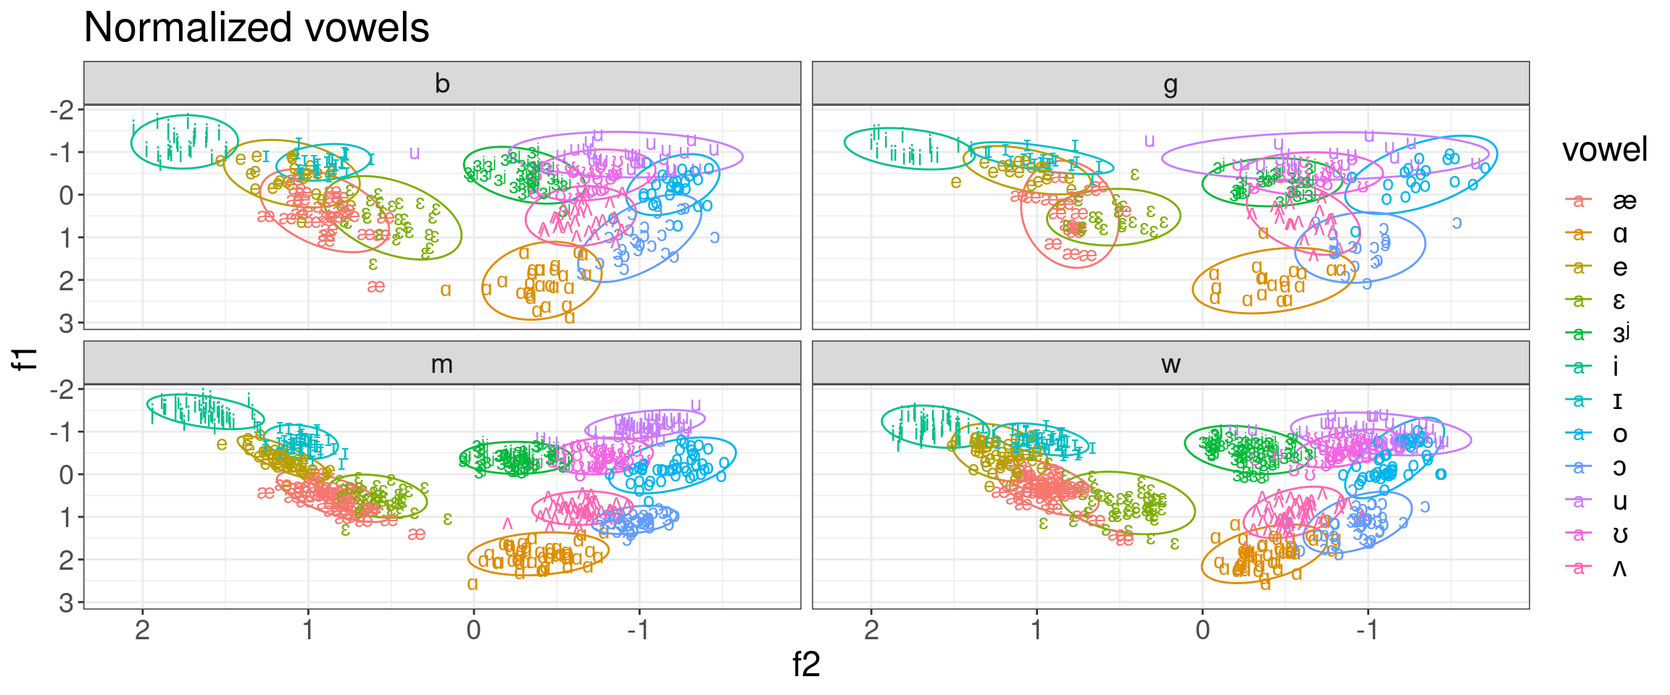
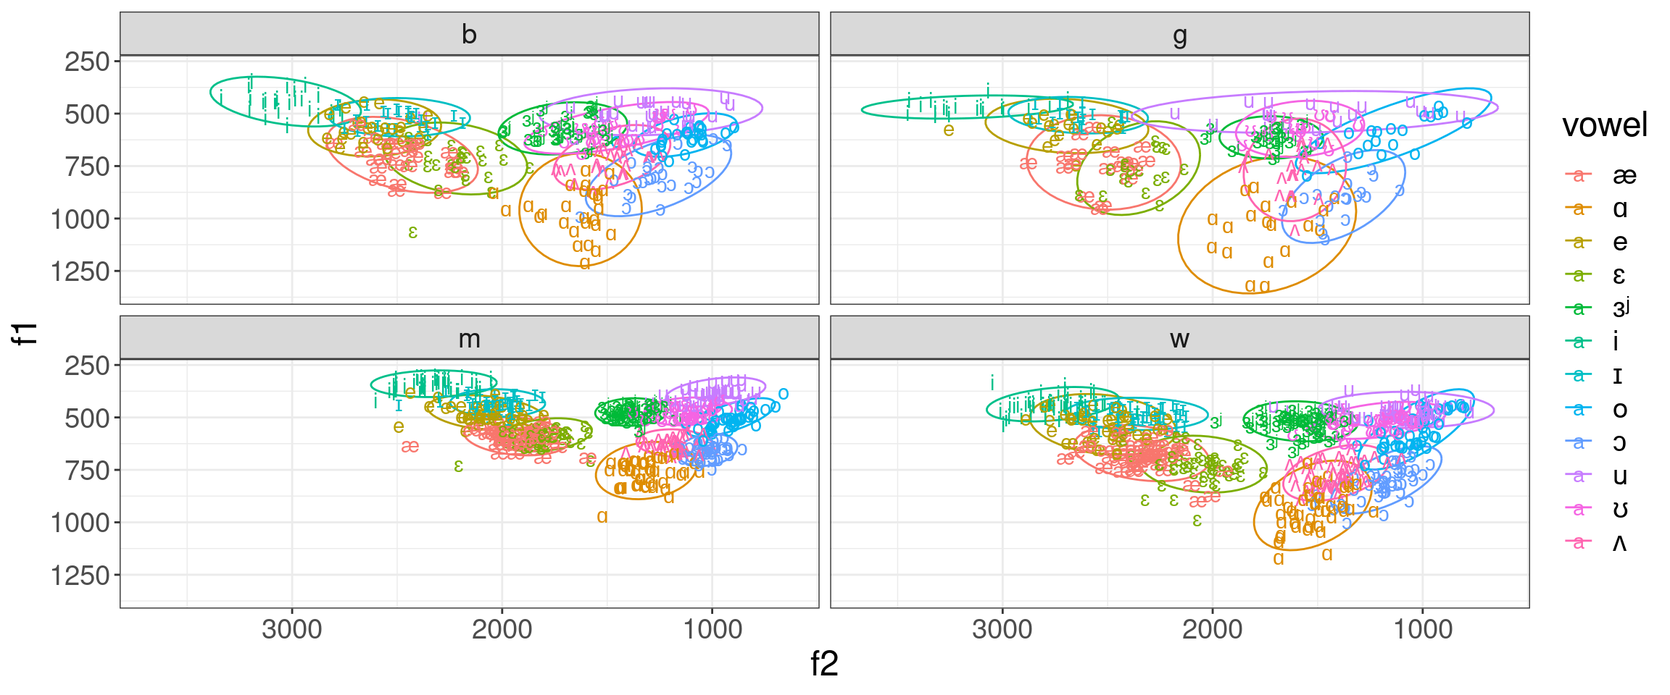
update

diff --git a/docs/08-automatic-analysis.html b/docs/08-automatic-analysis.html
@@ -300,10 +300,10 @@ div.csl-indent {
 </div>
 </div>
 <p>Here are the <a href="https://raw.githubusercontent.com/agricolamz/2024_HSE_m_Instrumental_phonetics/master/sounds/s1_all.TextGrid"><code>s1_all.TextGrid</code></a>, <a href="https://raw.githubusercontent.com/agricolamz/2024_HSE_m_Instrumental_phonetics/master/sounds/s1_all.wav"><code>s1_all.wav</code></a> and the <code>get-formants-args.praat</code>:</p>
-<pre><code>###########################################################
-####### Change the path! ##################################
-outputPath$ = "/home/agricolamz/Desktop/ex/formants.csv"
-###########################################################
+<pre><code>##############################################################
+####### Change the path! #####################################
+outputPath$ = "/home/agricolamz/Desktop/ex/abaza_formants.csv"
+##############################################################
 
 writeInfoLine: "Extracting formants..."
 
@@ -355,19 +355,37 @@ for thisInterval from 1 to numberOfPhonemes
 endfor
 
 appendInfoLine: newline$, newline$, "Whoo-hoo! It didn't crash!"</code></pre>
+<p>And now we can visualized the results:</p>
+<div class="cell" data-layout-align="center">
+<div class="sourceCode cell-code" id="cb4"><pre class="sourceCode r code-with-copy"><code class="sourceCode r"><span id="cb4-1"><a href="#cb4-1" aria-hidden="true" tabindex="-1"></a>abaza_formants <span class="ot">&lt;-</span> <span class="fu">read_csv</span>(<span class="st">"sounds/abaza_formants.csv"</span>)</span>
+<span id="cb4-2"><a href="#cb4-2" aria-hidden="true" tabindex="-1"></a></span>
+<span id="cb4-3"><a href="#cb4-3" aria-hidden="true" tabindex="-1"></a>abaza_formants <span class="sc">|&gt;</span> </span>
+<span id="cb4-4"><a href="#cb4-4" aria-hidden="true" tabindex="-1"></a>  <span class="fu">filter</span>(phoneme <span class="sc">!=</span> <span class="st">""</span>) <span class="sc">|&gt;</span> </span>
+<span id="cb4-5"><a href="#cb4-5" aria-hidden="true" tabindex="-1"></a>  <span class="fu">ggplot</span>(<span class="fu">aes</span>(F2, F1, <span class="at">label =</span> phoneme))<span class="sc">+</span></span>
+<span id="cb4-6"><a href="#cb4-6" aria-hidden="true" tabindex="-1"></a>  <span class="fu">geom_label</span>()<span class="sc">+</span></span>
+<span id="cb4-7"><a href="#cb4-7" aria-hidden="true" tabindex="-1"></a>  <span class="fu">scale_x_reverse</span>()<span class="sc">+</span></span>
+<span id="cb4-8"><a href="#cb4-8" aria-hidden="true" tabindex="-1"></a>  <span class="fu">scale_y_reverse</span>()</span></code><button title="Copy to Clipboard" class="code-copy-button"><i class="bi"></i></button></pre></div>
+<div class="cell-output-display">
+<div class="quarto-figure quarto-figure-center">
+<figure class="figure">
+<p><img src="08-automatic-analysis_files/figure-html/unnamed-chunk-3-1.png" class="img-fluid quarto-figure quarto-figure-center figure-img" style="width:100.0%"></p>
+</figure>
+</div>
+</div>
+</div>
 <section id="ipa" class="level2" data-number="8.1">
 <h2 data-number="8.1" class="anchored" data-anchor-id="ipa"><span class="header-section-number">8.1</span> <code>ipa</code></h2>
 <p>Converts character vectors between phonetic representations. Supports IPA (International Phonetic Alphabet), X-SAMPA (Extended Speech Assessment Methods Phonetic Alphabet), and ARPABET (used by the CMU Pronouncing Dictionary).</p>
 <div class="cell" data-layout-align="center">
-<div class="sourceCode cell-code" id="cb4"><pre class="sourceCode r code-with-copy"><code class="sourceCode r"><span id="cb4-1"><a href="#cb4-1" aria-hidden="true" tabindex="-1"></a><span class="fu">library</span>(ipa)</span>
-<span id="cb4-2"><a href="#cb4-2" aria-hidden="true" tabindex="-1"></a><span class="fu">convert_phonetics</span>(<span class="st">'%hE"loU'</span>, <span class="at">from =</span> <span class="st">"xsampa"</span>, <span class="at">to =</span> <span class="st">"ipa"</span>)</span></code><button title="Copy to Clipboard" class="code-copy-button"><i class="bi"></i></button></pre></div>
+<div class="sourceCode cell-code" id="cb5"><pre class="sourceCode r code-with-copy"><code class="sourceCode r"><span id="cb5-1"><a href="#cb5-1" aria-hidden="true" tabindex="-1"></a><span class="fu">library</span>(ipa)</span>
+<span id="cb5-2"><a href="#cb5-2" aria-hidden="true" tabindex="-1"></a><span class="fu">convert_phonetics</span>(<span class="st">'%hE"loU'</span>, <span class="at">from =</span> <span class="st">"xsampa"</span>, <span class="at">to =</span> <span class="st">"ipa"</span>)</span></code><button title="Copy to Clipboard" class="code-copy-button"><i class="bi"></i></button></pre></div>
 <div class="cell-output cell-output-stdout">
 <pre><code>[1] "ˌhɛˈloʊ"</code></pre>
 </div>
 </div>
 <p>If you will use the package it make sense to cite it:</p>
 <div class="cell" data-layout-align="center">
-<div class="sourceCode cell-code" id="cb6"><pre class="sourceCode r code-with-copy"><code class="sourceCode r"><span id="cb6-1"><a href="#cb6-1" aria-hidden="true" tabindex="-1"></a><span class="fu">citation</span>(<span class="st">"ipa"</span>)</span></code><button title="Copy to Clipboard" class="code-copy-button"><i class="bi"></i></button></pre></div>
+<div class="sourceCode cell-code" id="cb7"><pre class="sourceCode r code-with-copy"><code class="sourceCode r"><span id="cb7-1"><a href="#cb7-1" aria-hidden="true" tabindex="-1"></a><span class="fu">citation</span>(<span class="st">"ipa"</span>)</span></code><button title="Copy to Clipboard" class="code-copy-button"><i class="bi"></i></button></pre></div>
 <div class="cell-output cell-output-stdout">
 <pre><code>To cite ipa in publications use:
 
@@ -404,9 +422,9 @@ A BibTeX entry for LaTeX users is
 </ul>
 <p>In order to load them you need to follow these steps:</p>
 <div class="cell" data-layout-align="center">
-<div class="sourceCode cell-code" id="cb8"><pre class="sourceCode r code-with-copy"><code class="sourceCode r"><span id="cb8-1"><a href="#cb8-1" aria-hidden="true" tabindex="-1"></a><span class="fu">library</span>(phonTools)</span>
-<span id="cb8-2"><a href="#cb8-2" aria-hidden="true" tabindex="-1"></a><span class="fu">data</span>(h95)</span>
-<span id="cb8-3"><a href="#cb8-3" aria-hidden="true" tabindex="-1"></a>h95</span></code><button title="Copy to Clipboard" class="code-copy-button"><i class="bi"></i></button></pre></div>
+<div class="sourceCode cell-code" id="cb9"><pre class="sourceCode r code-with-copy"><code class="sourceCode r"><span id="cb9-1"><a href="#cb9-1" aria-hidden="true" tabindex="-1"></a><span class="fu">library</span>(phonTools)</span>
+<span id="cb9-2"><a href="#cb9-2" aria-hidden="true" tabindex="-1"></a><span class="fu">data</span>(h95)</span>
+<span id="cb9-3"><a href="#cb9-3" aria-hidden="true" tabindex="-1"></a>h95</span></code><button title="Copy to Clipboard" class="code-copy-button"><i class="bi"></i></button></pre></div>
 <div class="cell-output-display">
 <div data-pagedtable="false">
   <script data-pagedtable-source="" type="application/json">
@@ -417,38 +435,16 @@ A BibTeX entry for LaTeX users is
 </div>
 <p>As you see <code>vowel</code> column is in <a href="https://en.wikipedia.org/wiki/X-SAMPA">X-SAMPA</a>. In order to use it we need to recode it:</p>
 <div class="cell" data-layout-align="center">
-<div class="sourceCode cell-code" id="cb9"><pre class="sourceCode r code-with-copy"><code class="sourceCode r"><span id="cb9-1"><a href="#cb9-1" aria-hidden="true" tabindex="-1"></a><span class="fu">library</span>(tidyverse)</span>
-<span id="cb9-2"><a href="#cb9-2" aria-hidden="true" tabindex="-1"></a>h95 <span class="sc">|&gt;</span> </span>
-<span id="cb9-3"><a href="#cb9-3" aria-hidden="true" tabindex="-1"></a>  <span class="fu">mutate</span>(<span class="at">vowel =</span> <span class="fu">convert_phonetics</span>(vowel, <span class="at">from =</span> <span class="st">"xsampa"</span>, <span class="at">to =</span> <span class="st">"ipa"</span>)) <span class="sc">|&gt;</span></span>
-<span id="cb9-4"><a href="#cb9-4" aria-hidden="true" tabindex="-1"></a>  <span class="fu">ggplot</span>(<span class="fu">aes</span>(f2, f1, <span class="at">label =</span> vowel, <span class="at">color =</span> vowel))<span class="sc">+</span></span>
-<span id="cb9-5"><a href="#cb9-5" aria-hidden="true" tabindex="-1"></a>  <span class="fu">stat_ellipse</span>()<span class="sc">+</span></span>
-<span id="cb9-6"><a href="#cb9-6" aria-hidden="true" tabindex="-1"></a>  <span class="fu">geom_text</span>()<span class="sc">+</span></span>
-<span id="cb9-7"><a href="#cb9-7" aria-hidden="true" tabindex="-1"></a>  <span class="fu">scale_x_reverse</span>()<span class="sc">+</span></span>
-<span id="cb9-8"><a href="#cb9-8" aria-hidden="true" tabindex="-1"></a>  <span class="fu">scale_y_reverse</span>()<span class="sc">+</span></span>
-<span id="cb9-9"><a href="#cb9-9" aria-hidden="true" tabindex="-1"></a>  <span class="fu">coord_fixed</span>()<span class="sc">+</span></span>
-<span id="cb9-10"><a href="#cb9-10" aria-hidden="true" tabindex="-1"></a>  <span class="fu">facet_wrap</span>(<span class="sc">~</span>type)</span></code><button title="Copy to Clipboard" class="code-copy-button"><i class="bi"></i></button></pre></div>
-<div class="cell-output-display">
-<div class="quarto-figure quarto-figure-center">
-<figure class="figure">
-<p><img src="08-automatic-analysis_files/figure-html/unnamed-chunk-6-1.png" class="img-fluid quarto-figure quarto-figure-center figure-img" style="width:100.0%"></p>
-</figure>
-</div>
-</div>
-</div>
-<p>It also make sense to use normalization for vowels:</p>
-<div class="cell" data-layout-align="center">
-<div class="sourceCode cell-code" id="cb10"><pre class="sourceCode r code-with-copy"><code class="sourceCode r"><span id="cb10-1"><a href="#cb10-1" aria-hidden="true" tabindex="-1"></a>h95 <span class="sc">|&gt;</span> </span>
-<span id="cb10-2"><a href="#cb10-2" aria-hidden="true" tabindex="-1"></a>  <span class="fu">mutate</span>(<span class="at">vowel =</span> <span class="fu">convert_phonetics</span>(vowel, <span class="at">from =</span> <span class="st">"xsampa"</span>, <span class="at">to =</span> <span class="st">"ipa"</span>)) <span class="sc">|&gt;</span></span>
-<span id="cb10-3"><a href="#cb10-3" aria-hidden="true" tabindex="-1"></a>  <span class="fu">group_by</span>(speaker) <span class="sc">|&gt;</span> </span>
-<span id="cb10-4"><a href="#cb10-4" aria-hidden="true" tabindex="-1"></a>  <span class="fu">mutate</span>(<span class="at">f1 =</span> <span class="fu">scale</span>(f1),</span>
-<span id="cb10-5"><a href="#cb10-5" aria-hidden="true" tabindex="-1"></a>         <span class="at">f2 =</span> <span class="fu">scale</span>(f2)) <span class="sc">|&gt;</span> </span>
-<span id="cb10-6"><a href="#cb10-6" aria-hidden="true" tabindex="-1"></a>  <span class="fu">ggplot</span>(<span class="fu">aes</span>(f2, f1, <span class="at">label =</span> vowel, <span class="at">color =</span> vowel))<span class="sc">+</span></span>
-<span id="cb10-7"><a href="#cb10-7" aria-hidden="true" tabindex="-1"></a>  <span class="fu">stat_ellipse</span>()<span class="sc">+</span></span>
-<span id="cb10-8"><a href="#cb10-8" aria-hidden="true" tabindex="-1"></a>  <span class="fu">geom_text</span>()<span class="sc">+</span></span>
-<span id="cb10-9"><a href="#cb10-9" aria-hidden="true" tabindex="-1"></a>  <span class="fu">scale_x_reverse</span>()<span class="sc">+</span></span>
-<span id="cb10-10"><a href="#cb10-10" aria-hidden="true" tabindex="-1"></a>  <span class="fu">scale_y_reverse</span>()<span class="sc">+</span></span>
-<span id="cb10-11"><a href="#cb10-11" aria-hidden="true" tabindex="-1"></a>  <span class="fu">facet_wrap</span>(<span class="sc">~</span>type)<span class="sc">+</span></span>
-<span id="cb10-12"><a href="#cb10-12" aria-hidden="true" tabindex="-1"></a>  <span class="fu">labs</span>(<span class="at">title =</span> <span class="st">"Normalized vowels"</span>)</span></code><button title="Copy to Clipboard" class="code-copy-button"><i class="bi"></i></button></pre></div>
+<div class="sourceCode cell-code" id="cb10"><pre class="sourceCode r code-with-copy"><code class="sourceCode r"><span id="cb10-1"><a href="#cb10-1" aria-hidden="true" tabindex="-1"></a><span class="fu">library</span>(tidyverse)</span>
+<span id="cb10-2"><a href="#cb10-2" aria-hidden="true" tabindex="-1"></a>h95 <span class="sc">|&gt;</span> </span>
+<span id="cb10-3"><a href="#cb10-3" aria-hidden="true" tabindex="-1"></a>  <span class="fu">mutate</span>(<span class="at">vowel =</span> <span class="fu">convert_phonetics</span>(vowel, <span class="at">from =</span> <span class="st">"xsampa"</span>, <span class="at">to =</span> <span class="st">"ipa"</span>)) <span class="sc">|&gt;</span></span>
+<span id="cb10-4"><a href="#cb10-4" aria-hidden="true" tabindex="-1"></a>  <span class="fu">ggplot</span>(<span class="fu">aes</span>(f2, f1, <span class="at">label =</span> vowel, <span class="at">color =</span> vowel))<span class="sc">+</span></span>
+<span id="cb10-5"><a href="#cb10-5" aria-hidden="true" tabindex="-1"></a>  <span class="fu">stat_ellipse</span>()<span class="sc">+</span></span>
+<span id="cb10-6"><a href="#cb10-6" aria-hidden="true" tabindex="-1"></a>  <span class="fu">geom_text</span>()<span class="sc">+</span></span>
+<span id="cb10-7"><a href="#cb10-7" aria-hidden="true" tabindex="-1"></a>  <span class="fu">scale_x_reverse</span>()<span class="sc">+</span></span>
+<span id="cb10-8"><a href="#cb10-8" aria-hidden="true" tabindex="-1"></a>  <span class="fu">scale_y_reverse</span>()<span class="sc">+</span></span>
+<span id="cb10-9"><a href="#cb10-9" aria-hidden="true" tabindex="-1"></a>  <span class="fu">coord_fixed</span>()<span class="sc">+</span></span>
+<span id="cb10-10"><a href="#cb10-10" aria-hidden="true" tabindex="-1"></a>  <span class="fu">facet_wrap</span>(<span class="sc">~</span>type)</span></code><button title="Copy to Clipboard" class="code-copy-button"><i class="bi"></i></button></pre></div>
 <div class="cell-output-display">
 <div class="quarto-figure quarto-figure-center">
 <figure class="figure">
@@ -457,9 +453,31 @@ A BibTeX entry for LaTeX users is
 </div>
 </div>
 </div>
+<p>It also make sense to use normalization for vowels:</p>
+<div class="cell" data-layout-align="center">
+<div class="sourceCode cell-code" id="cb11"><pre class="sourceCode r code-with-copy"><code class="sourceCode r"><span id="cb11-1"><a href="#cb11-1" aria-hidden="true" tabindex="-1"></a>h95 <span class="sc">|&gt;</span> </span>
+<span id="cb11-2"><a href="#cb11-2" aria-hidden="true" tabindex="-1"></a>  <span class="fu">mutate</span>(<span class="at">vowel =</span> <span class="fu">convert_phonetics</span>(vowel, <span class="at">from =</span> <span class="st">"xsampa"</span>, <span class="at">to =</span> <span class="st">"ipa"</span>)) <span class="sc">|&gt;</span></span>
+<span id="cb11-3"><a href="#cb11-3" aria-hidden="true" tabindex="-1"></a>  <span class="fu">group_by</span>(speaker) <span class="sc">|&gt;</span> </span>
+<span id="cb11-4"><a href="#cb11-4" aria-hidden="true" tabindex="-1"></a>  <span class="fu">mutate</span>(<span class="at">f1 =</span> <span class="fu">scale</span>(f1),</span>
+<span id="cb11-5"><a href="#cb11-5" aria-hidden="true" tabindex="-1"></a>         <span class="at">f2 =</span> <span class="fu">scale</span>(f2)) <span class="sc">|&gt;</span> </span>
+<span id="cb11-6"><a href="#cb11-6" aria-hidden="true" tabindex="-1"></a>  <span class="fu">ggplot</span>(<span class="fu">aes</span>(f2, f1, <span class="at">label =</span> vowel, <span class="at">color =</span> vowel))<span class="sc">+</span></span>
+<span id="cb11-7"><a href="#cb11-7" aria-hidden="true" tabindex="-1"></a>  <span class="fu">stat_ellipse</span>()<span class="sc">+</span></span>
+<span id="cb11-8"><a href="#cb11-8" aria-hidden="true" tabindex="-1"></a>  <span class="fu">geom_text</span>()<span class="sc">+</span></span>
+<span id="cb11-9"><a href="#cb11-9" aria-hidden="true" tabindex="-1"></a>  <span class="fu">scale_x_reverse</span>()<span class="sc">+</span></span>
+<span id="cb11-10"><a href="#cb11-10" aria-hidden="true" tabindex="-1"></a>  <span class="fu">scale_y_reverse</span>()<span class="sc">+</span></span>
+<span id="cb11-11"><a href="#cb11-11" aria-hidden="true" tabindex="-1"></a>  <span class="fu">facet_wrap</span>(<span class="sc">~</span>type)<span class="sc">+</span></span>
+<span id="cb11-12"><a href="#cb11-12" aria-hidden="true" tabindex="-1"></a>  <span class="fu">labs</span>(<span class="at">title =</span> <span class="st">"Normalized vowels"</span>)</span></code><button title="Copy to Clipboard" class="code-copy-button"><i class="bi"></i></button></pre></div>
+<div class="cell-output-display">
+<div class="quarto-figure quarto-figure-center">
+<figure class="figure">
+<p><img src="08-automatic-analysis_files/figure-html/unnamed-chunk-8-1.png" class="img-fluid quarto-figure quarto-figure-center figure-img" style="width:100.0%"></p>
+</figure>
+</div>
+</div>
+</div>
 <p>If you will use the package it make sense to cite it:</p>
 <div class="cell" data-layout-align="center">
-<div class="sourceCode cell-code" id="cb11"><pre class="sourceCode r code-with-copy"><code class="sourceCode r"><span id="cb11-1"><a href="#cb11-1" aria-hidden="true" tabindex="-1"></a><span class="fu">citation</span>(<span class="st">"phonTools"</span>)</span></code><button title="Copy to Clipboard" class="code-copy-button"><i class="bi"></i></button></pre></div>
+<div class="sourceCode cell-code" id="cb12"><pre class="sourceCode r code-with-copy"><code class="sourceCode r"><span id="cb12-1"><a href="#cb12-1" aria-hidden="true" tabindex="-1"></a><span class="fu">citation</span>(<span class="st">"phonTools"</span>)</span></code><button title="Copy to Clipboard" class="code-copy-button"><i class="bi"></i></button></pre></div>
 <div class="cell-output cell-output-stdout">
 <pre><code>To cite package 'phonTools' in publications use:
 
@@ -482,7 +500,7 @@ A BibTeX entry for LaTeX users is
 <p>Procedures for the manipulation, normalization, and plotting of phonetic and sociophonetic vowel formant data. <code>vowels</code> is the backend for the <a href="http://lingtools.uoregon.edu/norm/about_norm1.php">NORM website</a>.</p>
 <p>If you will use the package it make sense to cite it:</p>
 <div class="cell" data-layout-align="center">
-<div class="sourceCode cell-code" id="cb13"><pre class="sourceCode r code-with-copy"><code class="sourceCode r"><span id="cb13-1"><a href="#cb13-1" aria-hidden="true" tabindex="-1"></a><span class="fu">citation</span>(<span class="st">"vowels"</span>)</span></code><button title="Copy to Clipboard" class="code-copy-button"><i class="bi"></i></button></pre></div>
+<div class="sourceCode cell-code" id="cb14"><pre class="sourceCode r code-with-copy"><code class="sourceCode r"><span id="cb14-1"><a href="#cb14-1" aria-hidden="true" tabindex="-1"></a><span class="fu">citation</span>(<span class="st">"vowels"</span>)</span></code><button title="Copy to Clipboard" class="code-copy-button"><i class="bi"></i></button></pre></div>
 <div class="cell-output cell-output-stdout">
 <pre><code>To cite package 'vowels' in publications use:
 
@@ -511,7 +529,7 @@ package DESCRIPTION file and may need manual editing, see
 <p>This is a package for reading, writing and manipulating Praat objects like TextGrid, PitchTier, Pitch, IntensityTier, Formant, Sound, and Collection files. You can find the demo for <code>rPraat</code> <a href="https://fu.ff.cuni.cz/praat/rDemo.html">here</a>.</p>
 <p>If you will use the package it make sense to cite it:</p>
 <div class="cell" data-layout-align="center">
-<div class="sourceCode cell-code" id="cb15"><pre class="sourceCode r code-with-copy"><code class="sourceCode r"><span id="cb15-1"><a href="#cb15-1" aria-hidden="true" tabindex="-1"></a><span class="fu">citation</span>(<span class="st">"rPraat"</span>)</span></code><button title="Copy to Clipboard" class="code-copy-button"><i class="bi"></i></button></pre></div>
+<div class="sourceCode cell-code" id="cb16"><pre class="sourceCode r code-with-copy"><code class="sourceCode r"><span id="cb16-1"><a href="#cb16-1" aria-hidden="true" tabindex="-1"></a><span class="fu">citation</span>(<span class="st">"rPraat"</span>)</span></code><button title="Copy to Clipboard" class="code-copy-button"><i class="bi"></i></button></pre></div>
 <div class="cell-output cell-output-stdout">
 <pre><code>To cite rPraat in publications use:
 
@@ -548,7 +566,7 @@ A BibTeX entry for LaTeX users is
 <p>You can either run this command every time you start a new R session, or you can add the command to your <code>.Rprofile</code>.</p>
 <p>If you run into the problem with permisions run the following command:</p>
 <div class="cell" data-layout-align="center">
-<div class="sourceCode cell-code" id="cb19"><pre class="sourceCode r code-with-copy"><code class="sourceCode r"><span id="cb19-1"><a href="#cb19-1" aria-hidden="true" tabindex="-1"></a><span class="fu">system</span>(<span class="st">"chmod 700 /cloud/projects/praat"</span>)</span></code><button title="Copy to Clipboard" class="code-copy-button"><i class="bi"></i></button></pre></div>
+<div class="sourceCode cell-code" id="cb20"><pre class="sourceCode r code-with-copy"><code class="sourceCode r"><span id="cb20-1"><a href="#cb20-1" aria-hidden="true" tabindex="-1"></a><span class="fu">system</span>(<span class="st">"chmod 700 /cloud/projects/praat"</span>)</span></code><button title="Copy to Clipboard" class="code-copy-button"><i class="bi"></i></button></pre></div>
 </div>
 <p>As an example I will use the following data:</p>
 <pre><code>├── get-formants-args.praat
@@ -598,39 +616,39 @@ for interval to intervals - 1
 endfor</code></pre>
 <p>In order to use it you need to provide path to the script:</p>
 <div class="cell" data-layout-align="center">
-<div class="sourceCode cell-code" id="cb22"><pre class="sourceCode r code-with-copy"><code class="sourceCode r"><span id="cb22-1"><a href="#cb22-1" aria-hidden="true" tabindex="-1"></a><span class="fu">library</span>(speakr)</span>
-<span id="cb22-2"><a href="#cb22-2" aria-hidden="true" tabindex="-1"></a><span class="fu">praat_run</span>(<span class="st">"sounds/speakr/get-formants-args.praat"</span>, </span>
-<span id="cb22-3"><a href="#cb22-3" aria-hidden="true" tabindex="-1"></a>          <span class="st">"Hertz"</span>, <span class="fl">0.03</span>, <span class="at">capture =</span> <span class="cn">TRUE</span>)</span></code><button title="Copy to Clipboard" class="code-copy-button"><i class="bi"></i></button></pre></div>
+<div class="sourceCode cell-code" id="cb23"><pre class="sourceCode r code-with-copy"><code class="sourceCode r"><span id="cb23-1"><a href="#cb23-1" aria-hidden="true" tabindex="-1"></a><span class="fu">library</span>(speakr)</span>
+<span id="cb23-2"><a href="#cb23-2" aria-hidden="true" tabindex="-1"></a><span class="fu">praat_run</span>(<span class="st">"sounds/speakr/get-formants-args.praat"</span>, </span>
+<span id="cb23-3"><a href="#cb23-3" aria-hidden="true" tabindex="-1"></a>          <span class="st">"Hertz"</span>, <span class="fl">0.03</span>, <span class="at">capture =</span> <span class="cn">TRUE</span>)</span></code><button title="Copy to Clipboard" class="code-copy-button"><i class="bi"></i></button></pre></div>
 <div class="cell-output cell-output-stdout">
 <pre><code>[1] "vowel,F1,F2,F3\na,832.4811857289797,1530.407389678815,2174.814335788099\na,775.5057209680164,1368.255821170224,2509.084391503502\na,833.9754988486553,1430.9906341641108,2375.240040050019\na,863.5056920837876,1546.8857016095715,2890.4894773135247\nə,723.6246579247697,1689.4016617222446,2873.1991954244213\nə,717.2753390554032,1675.2062036645505,2745.5586414564323\nə,758.8975215666187,1679.0831544665587,2698.9563443037064\nə,711.4372573263009,1685.1137747815467,3031.5963943557826"</code></pre>
 </div>
 </div>
 <p>As you see the result is file in a <code>.csv</code> format. We can use the following code in order to visualise it:</p>
 <div class="cell" data-layout-align="center">
-<div class="sourceCode cell-code" id="cb24"><pre class="sourceCode r code-with-copy"><code class="sourceCode r"><span id="cb24-1"><a href="#cb24-1" aria-hidden="true" tabindex="-1"></a><span class="fu">library</span>(tidyverse)</span>
-<span id="cb24-2"><a href="#cb24-2" aria-hidden="true" tabindex="-1"></a><span class="fu">praat_run</span>(<span class="st">"sounds/speakr/get-formants-args.praat"</span>, </span>
-<span id="cb24-3"><a href="#cb24-3" aria-hidden="true" tabindex="-1"></a>          <span class="st">"Hertz"</span>, <span class="fl">0.03</span>, <span class="at">capture =</span> <span class="cn">TRUE</span>) <span class="sc">|&gt;</span> </span>
-<span id="cb24-4"><a href="#cb24-4" aria-hidden="true" tabindex="-1"></a>  <span class="fu">read_csv</span>() <span class="ot">-&gt;</span></span>
-<span id="cb24-5"><a href="#cb24-5" aria-hidden="true" tabindex="-1"></a>  abaza_formants</span>
-<span id="cb24-6"><a href="#cb24-6" aria-hidden="true" tabindex="-1"></a></span>
-<span id="cb24-7"><a href="#cb24-7" aria-hidden="true" tabindex="-1"></a>abaza_formants <span class="sc">|&gt;</span> </span>
-<span id="cb24-8"><a href="#cb24-8" aria-hidden="true" tabindex="-1"></a>  <span class="fu">ggplot</span>(<span class="fu">aes</span>(F2, F1, <span class="at">label =</span> vowel, <span class="at">color =</span> vowel))<span class="sc">+</span></span>
-<span id="cb24-9"><a href="#cb24-9" aria-hidden="true" tabindex="-1"></a>  <span class="fu">geom_text</span>()<span class="sc">+</span></span>
-<span id="cb24-10"><a href="#cb24-10" aria-hidden="true" tabindex="-1"></a>  <span class="fu">scale_x_reverse</span>()<span class="sc">+</span></span>
-<span id="cb24-11"><a href="#cb24-11" aria-hidden="true" tabindex="-1"></a>  <span class="fu">scale_y_reverse</span>()<span class="sc">+</span></span>
-<span id="cb24-12"><a href="#cb24-12" aria-hidden="true" tabindex="-1"></a>  <span class="fu">coord_fixed</span>()<span class="sc">+</span></span>
-<span id="cb24-13"><a href="#cb24-13" aria-hidden="true" tabindex="-1"></a>  <span class="fu">labs</span>(<span class="at">title =</span> <span class="st">"Example of Abaza vowels"</span>)</span></code><button title="Copy to Clipboard" class="code-copy-button"><i class="bi"></i></button></pre></div>
+<div class="sourceCode cell-code" id="cb25"><pre class="sourceCode r code-with-copy"><code class="sourceCode r"><span id="cb25-1"><a href="#cb25-1" aria-hidden="true" tabindex="-1"></a><span class="fu">library</span>(tidyverse)</span>
+<span id="cb25-2"><a href="#cb25-2" aria-hidden="true" tabindex="-1"></a><span class="fu">praat_run</span>(<span class="st">"sounds/speakr/get-formants-args.praat"</span>, </span>
+<span id="cb25-3"><a href="#cb25-3" aria-hidden="true" tabindex="-1"></a>          <span class="st">"Hertz"</span>, <span class="fl">0.03</span>, <span class="at">capture =</span> <span class="cn">TRUE</span>) <span class="sc">|&gt;</span> </span>
+<span id="cb25-4"><a href="#cb25-4" aria-hidden="true" tabindex="-1"></a>  <span class="fu">read_csv</span>() <span class="ot">-&gt;</span></span>
+<span id="cb25-5"><a href="#cb25-5" aria-hidden="true" tabindex="-1"></a>  abaza_formants</span>
+<span id="cb25-6"><a href="#cb25-6" aria-hidden="true" tabindex="-1"></a></span>
+<span id="cb25-7"><a href="#cb25-7" aria-hidden="true" tabindex="-1"></a>abaza_formants <span class="sc">|&gt;</span> </span>
+<span id="cb25-8"><a href="#cb25-8" aria-hidden="true" tabindex="-1"></a>  <span class="fu">ggplot</span>(<span class="fu">aes</span>(F2, F1, <span class="at">label =</span> vowel, <span class="at">color =</span> vowel))<span class="sc">+</span></span>
+<span id="cb25-9"><a href="#cb25-9" aria-hidden="true" tabindex="-1"></a>  <span class="fu">geom_text</span>()<span class="sc">+</span></span>
+<span id="cb25-10"><a href="#cb25-10" aria-hidden="true" tabindex="-1"></a>  <span class="fu">scale_x_reverse</span>()<span class="sc">+</span></span>
+<span id="cb25-11"><a href="#cb25-11" aria-hidden="true" tabindex="-1"></a>  <span class="fu">scale_y_reverse</span>()<span class="sc">+</span></span>
+<span id="cb25-12"><a href="#cb25-12" aria-hidden="true" tabindex="-1"></a>  <span class="fu">coord_fixed</span>()<span class="sc">+</span></span>
+<span id="cb25-13"><a href="#cb25-13" aria-hidden="true" tabindex="-1"></a>  <span class="fu">labs</span>(<span class="at">title =</span> <span class="st">"Example of Abaza vowels"</span>)</span></code><button title="Copy to Clipboard" class="code-copy-button"><i class="bi"></i></button></pre></div>
 <div class="cell-output-display">
 <div class="quarto-figure quarto-figure-center">
 <figure class="figure">
-<p><img src="08-automatic-analysis_files/figure-html/unnamed-chunk-13-1.png" class="img-fluid quarto-figure quarto-figure-center figure-img" style="width:100.0%"></p>
+<p><img src="08-automatic-analysis_files/figure-html/unnamed-chunk-14-1.png" class="img-fluid quarto-figure quarto-figure-center figure-img" style="width:100.0%"></p>
 </figure>
 </div>
 </div>
 </div>
 <p>If you will use the package it make sense to cite it:</p>
 <div class="cell" data-layout-align="center">
-<div class="sourceCode cell-code" id="cb25"><pre class="sourceCode r code-with-copy"><code class="sourceCode r"><span id="cb25-1"><a href="#cb25-1" aria-hidden="true" tabindex="-1"></a><span class="fu">citation</span>(<span class="st">"speakr"</span>)</span></code><button title="Copy to Clipboard" class="code-copy-button"><i class="bi"></i></button></pre></div>
+<div class="sourceCode cell-code" id="cb26"><pre class="sourceCode r code-with-copy"><code class="sourceCode r"><span id="cb26-1"><a href="#cb26-1" aria-hidden="true" tabindex="-1"></a><span class="fu">citation</span>(<span class="st">"speakr"</span>)</span></code><button title="Copy to Clipboard" class="code-copy-button"><i class="bi"></i></button></pre></div>
 <div class="cell-output cell-output-stdout">
 <pre><code>To cite package 'speakr' in publications use:
 
